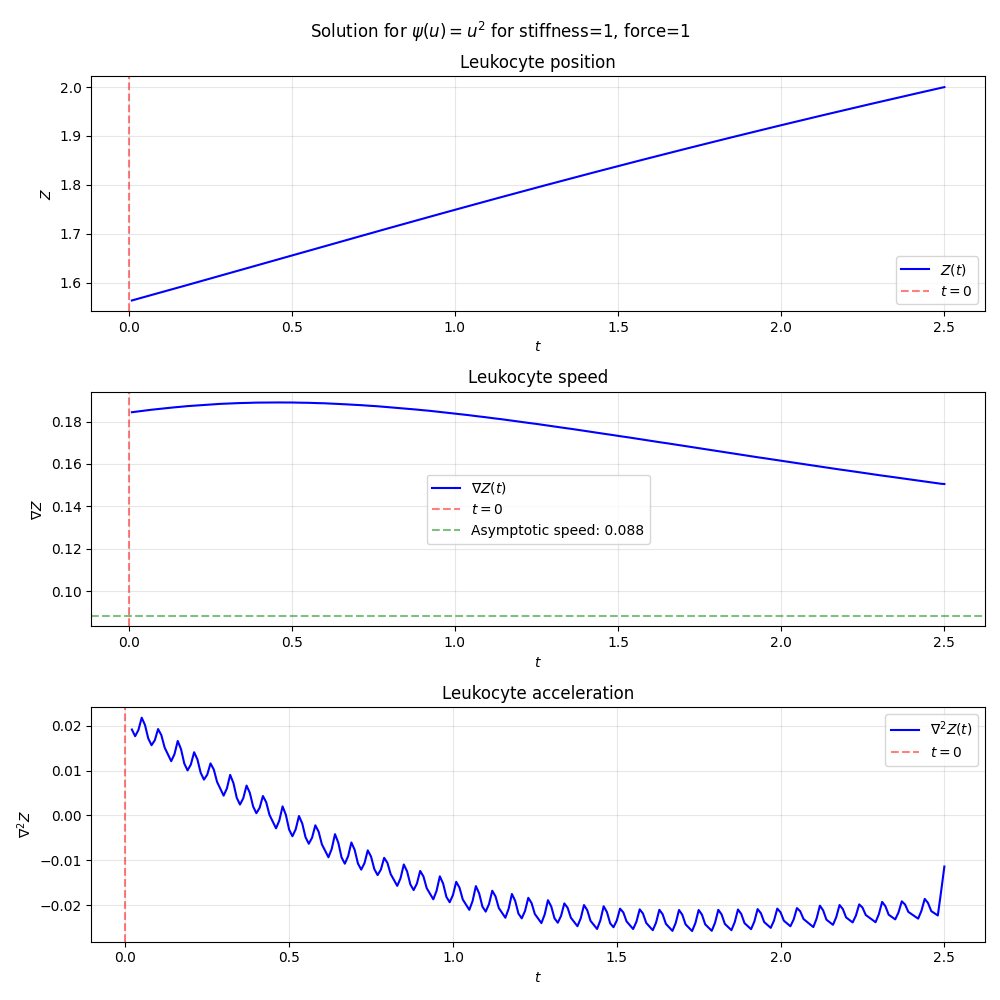
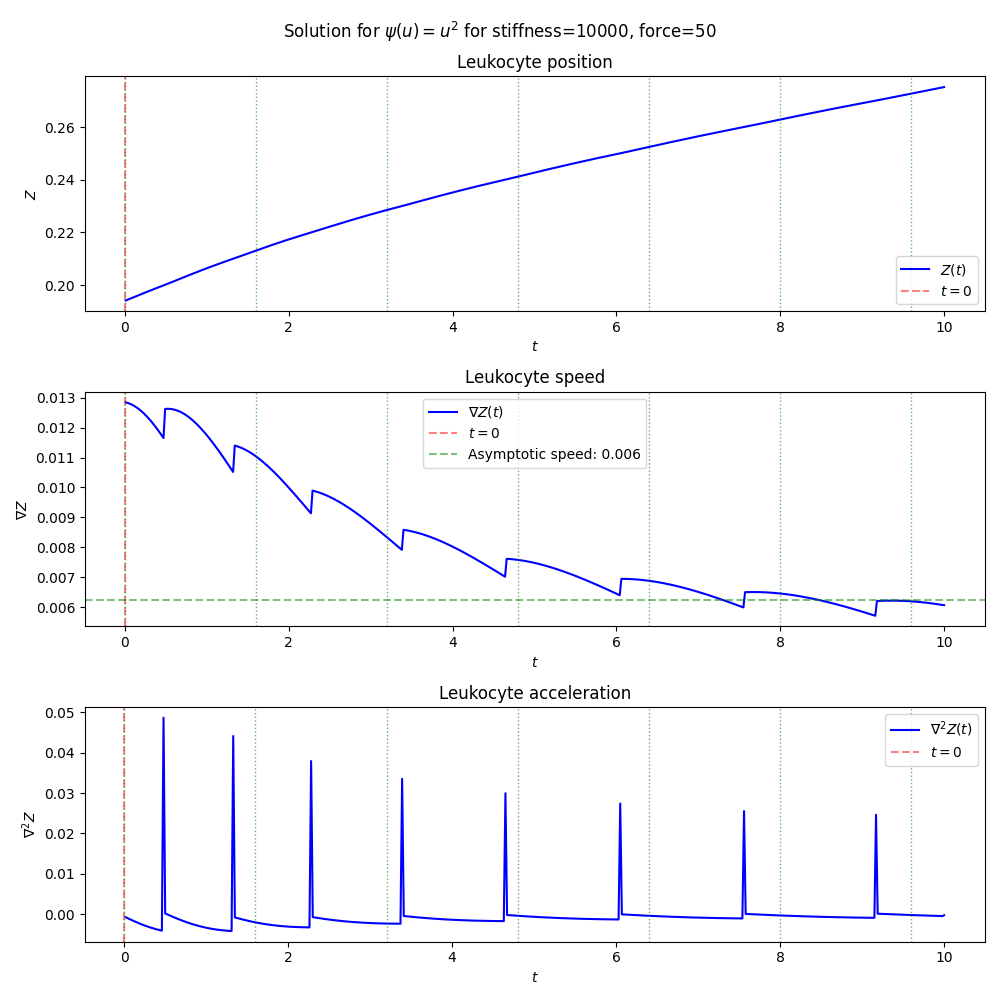
try with period T

diff --git a/residence_time_opt.py b/residence_time_opt.py
@@ -180,20 +180,23 @@ def main():
     # Time parameters
     h = 0.01        # Time step
     N = 50          # Number of initial points
-    M = 250      # Number of points to compute
+    M = 1000      # Number of points to compute
 
     z_initial_amplitude = 0.1
 
     # Space steps and interval
-    delta_x = 0.01
+    delta_x = 0.01 
     N_x = 500
 
     lamb = 4
     decay_rate = 1/lamb
-    f_amplitude =  1    #50 #c in our math. 
-    stiffness = 1  #10000
+    f_amplitude =  50   #50 #c in our math. 
+    stiffness = 10000  #10000
 
+    # be careful about whether it should be 1/lambda or lambda
     asymptotic_speed = (f_amplitude * decay_rate**3 / (2*stiffness))**(1/2)
+
+    T_theo = delta_x / asymptotic_speed
 
     
 
@@ -234,6 +237,8 @@ def main():
     acceleration = np.gradient(speed, h, axis=0)
     #remove past history for better plotting
     t, Z, speed, acceleration = t[N+1:], Z[N+1:], speed[N+1:], acceleration[N+1:]
+
+    t_oscillations = np.arange(0, t[-1], T_theo) #prints all oscillations
     
 
     # Plot    
@@ -245,7 +250,7 @@ def main():
     axes[0].set_xlabel('$t$')
     axes[0].set_ylabel('$Z$')
     axes[0].legend()
-    axes[0].grid(True, alpha=0.3)
+    #axes[0].grid(True, alpha=0.3)
     axes[0].set_title("Leukocyte position")
 
     axes[1].plot(t, speed, 'b-', linewidth=1.5, label=f'$\\nabla Z(t)$')
@@ -254,7 +259,7 @@ def main():
     axes[1].set_xlabel('$t$')
     axes[1].set_ylabel(f'$\\nabla Z$')
     axes[1].legend()
-    axes[1].grid(True, alpha=0.3)
+    #axes[1].grid(True, alpha=0.3)
     axes[1].set_title("Leukocyte speed")
 
     axes[2].plot(t[1:], acceleration[1:], 'b-', linewidth=1.5, label=f'$\\nabla^2 Z(t)$')
@@ -262,8 +267,14 @@ def main():
     axes[2].set_xlabel('$t$')
     axes[2].set_ylabel(f'$\\nabla^2 Z$')
     axes[2].legend()
-    axes[2].grid(True, alpha=0.3)
+    #axes[2].grid(True, alpha=0.3)
     axes[2].set_title("Leukocyte acceleration")
+
+    for ax in axes:
+        for i, t_osc in enumerate(t_oscillations):
+            # On ajoute un label uniquement pour la première ligne pour la légende
+            label = "Theoretical $T = \\Delta x / asymptotic_speed$" if i == 0 else ""
+            ax.axvline(x=t_osc, color='green', linestyle=':', alpha=0.6, linewidth=1, label=label)
  
     plt.suptitle(f'Solution for $\\psi(u) = u^{{{alpha}}}$ for stiffness={stiffness}, force={f_amplitude}')
     plt.tight_layout()
